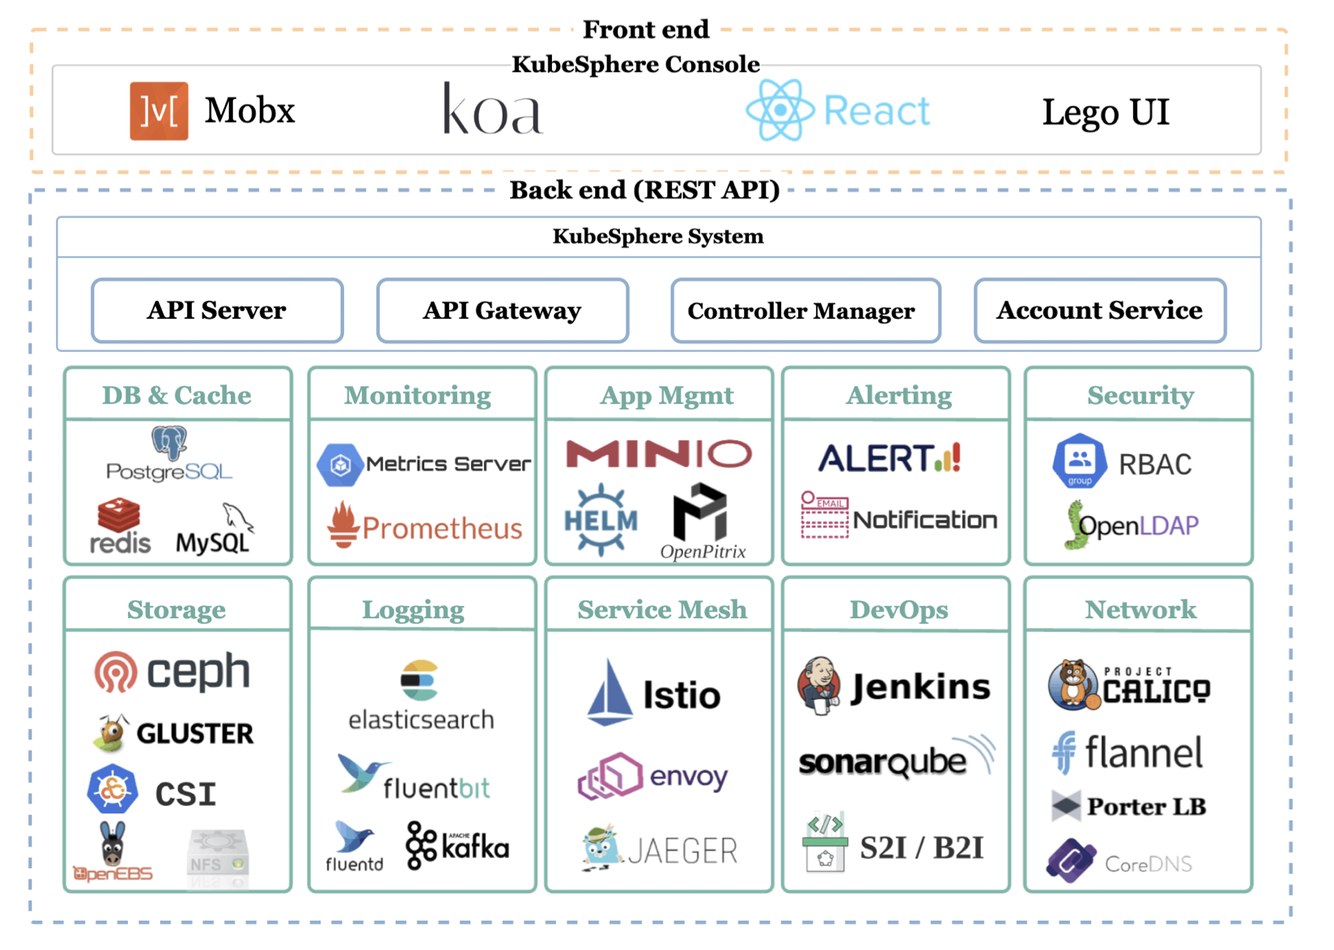
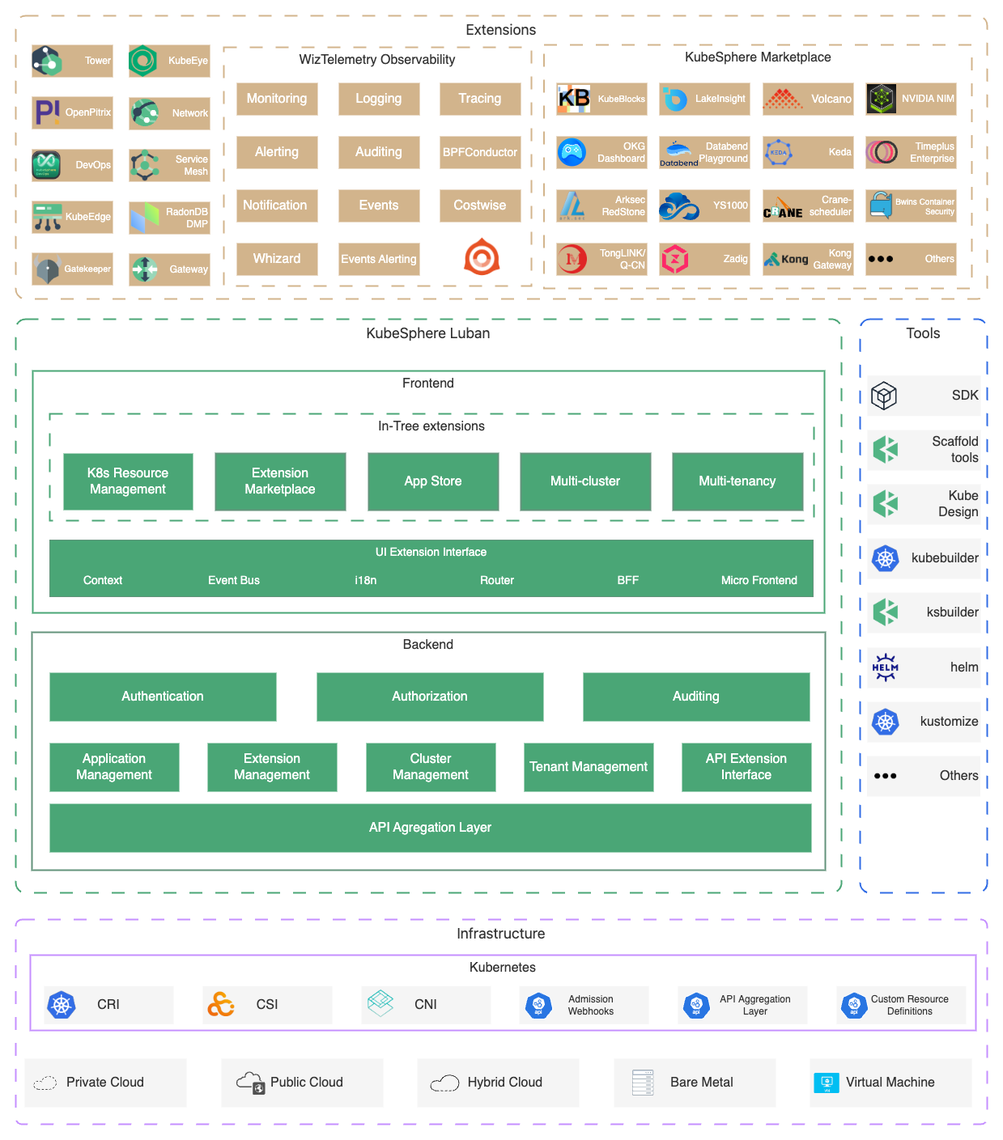
docs: update architecture image and social media link in README (#6425)

diff --git a/README.md b/README.md
@@ -62,8 +62,13 @@ KubeSphere installed in only 5 seconds and experience feature-rich KubeSphere.
 ## Features
 
 <details>
+<summary><b>🧩 Extensible Architecture</b></summary>  
+Designed for flexibility, supporting plugin-based extensions and seamless integrations. Easily customize and expand functionalities to meet evolving needs. <a href="https://kubesphere.io/docs/v4.1/01-intro/02-architecture/">Learn more</a>.  
+</details>
+
+<details>
   <summary><b>🕸 Provisioning Kubernetes Cluster</b></summary>
-  Support deploy Kubernetes on any infrastructure, support online and air-gapped installation. <a href="https://kubesphere.io/docs/installing-on-linux/introduction/intro/">Learn more</a>.
+  Support deploy Kubernetes on any infrastructure, support online and air-gapped installation. <a href="https://kubesphere.io/docs/v4.1/03-installation-and-upgrade/02-install-kubesphere/">Learn more</a>.
   </details>
 
 <details>
@@ -73,32 +78,27 @@ KubeSphere installed in only 5 seconds and experience feature-rich KubeSphere.
 
 <details>
   <summary><b>🤖 Kubernetes DevOps</b></summary>
-  Provide GitOps-based CD solutions and use Argo CD to provide the underlying support, collecting CD status information in real time. With the mainstream CI engine Jenkins integrated, DevOps has never been easier. <a href="https://kubesphere.io/devops/">Learn more</a>.
+  Provide GitOps-based CD solutions and use Argo CD to provide the underlying support, collecting CD status information in real time. With the mainstream CI engine Jenkins integrated, DevOps has never been easier. <a href="https://kubesphere.io/docs/v4.1/11-use-extensions/01-devops/01-overview/">Learn more</a>.
   </details>
 
 <details>
   <summary><b>🔎 Cloud Native Observability</b></summary>
-  Multi-dimensional monitoring, events and auditing logs are supported; multi-tenant log query and collection, alerting and notification are built-in. <a href="https://kubesphere.io/observability/">Learn more</a>.
+  Multi-dimensional monitoring, events and auditing logs are supported; multi-tenant log query and collection, alerting and notification are built-in. <a href="https://kubesphere.io/docs/v4.1/11-use-extensions/05-observability-platform/">Learn more</a>.
   </details>
 
 <details>
-  <summary><b>🧩 Service Mesh (Istio-based)</b></summary>
-  Provide fine-grained traffic management, observability and tracing for distributed microservice applications, provides visualization for traffic topology. <a href="https://kubesphere.io/service-mesh/">Learn more</a>.
+  <summary><b>🌐 Service Mesh (Istio-based)</b></summary>
+  Provide fine-grained traffic management, observability and tracing for distributed microservice applications, provides visualization for traffic topology. <a href="https://kubesphere.io/docs/v4.1/11-use-extensions/03-service-mesh/">Learn more</a>.
   </details>
 
 <details>
   <summary><b>💻 App Store</b></summary>
-  Provide an App Store for Helm-based applications, and offer application lifecycle management on Kubernetes platform. <a href="https://kubesphere.io/docs/pluggable-components/app-store/">Learn more</a>.
+  Provide an App Store for Helm-based applications, and offer application lifecycle management on Kubernetes platform. <a href="https://kubesphere.io/docs/v4.1/11-use-extensions/02-app-store/02-app-management/">Learn more</a>.
   </details>
 
 <details>
   <summary><b>💡 Edge Computing Platform</b></summary>
-  KubeSphere integrates <a href="https://kubeedge.io/en/">KubeEdge</a> to enable users to deploy applications on the edge devices and view logs and monitoring metrics of them on the console. <a href="https://kubesphere.io/docs/pluggable-components/kubeedge/">Learn more</a>.
-  </details>
-
-<details>
-  <summary><b>📊 Metering and Billing</b></summary>
-  Track resource consumption at different levels on a unified dashboard, which helps you make better-informed decisions on planning and reduce the cost. <a href="https://kubesphere.io/docs/toolbox/metering-and-billing/view-resource-consumption/">Learn more</a>.
+  KubeSphere integrates <a href="https://kubeedge.io/en/">KubeEdge</a> to enable users to deploy applications on the edge devices and view logs and monitoring metrics of them on the console. <a href="https://kubesphere.io/docs/v4.1/11-use-extensions/17-kubeedge/">Learn more</a>.
   </details>
 
 <details>
@@ -107,9 +107,9 @@ KubeSphere installed in only 5 seconds and experience feature-rich KubeSphere.
   </details>
 
 <details>
-  <summary><b>🏘 Multi-tenancy</b></summary>
-  Provide unified authentication with fine-grained roles and three-tier authorization system, and support AD/LDAP authentication.
-  </details>
+<summary><b>🏢 Multi-Tenancy</b></summary>  
+Isolated workspaces with role-based access control ensure secure resource sharing across multiple tenants. Supports fine-grained permissions and quota management. <a href="https://kubesphere.io/docs/v4.1/08-workspace-management/">Learn more</a>.  
+</details>
 
 <details>
   <summary><b>🧠 GPU Workloads Scheduling and Monitoring</b></summary>
@@ -118,9 +118,7 @@ KubeSphere installed in only 5 seconds and experience feature-rich KubeSphere.
 
 ## Architecture
 
-KubeSphere uses a loosely-coupled architecture that separates the [frontend](https://github.com/kubesphere/console) from
-the [backend](https://github.com/kubesphere/kubesphere). External systems can access the components of the backend
-through the REST APIs.
+KubeSphere 4.x adopts a microkernel + extension components architecture ([codename LuBan](https://kubesphere.io/docs/v4.1/01-intro/01-introduction/)). The core part (KubeSphere Core) only includes the essential basic functions required for system operation, with independent functional modules split and provided in the form of extension components. Users can dynamically manage the extension components during system operation. With the extension capabilities, KubeSphere can support more application scenarios and meet the needs of different users.
 
 ![Architecture](docs/images/architecture.png)
 
@@ -128,70 +126,24 @@ through the REST APIs.
 
 ## Latest release
 
-🎉 KubeSphere v3.4.0 was released! It brings enhancements and better user experience, see
-the [Release Notes For 3.4.0](https://kubesphere.io/docs/release/release-v340/) for the updates.
-
-#### Component supported versions table
-
-| Component      | Version                                                                       | K8s supported version         |
-|----------------|-------------------------------------------------------------------------------|-------------------------------|
-| Alerting       | N/A                                                                           | 1.21,1.22,1.23,1.24,1.25,1.26 |
-| Auditing	      | v0.2.0                                                                        | 1.21,1.22,1.23,1.24,1.25,1.26 |
-| Monitoring     | N/A		                                                                         | 1.21,1.22,1.23,1.24,1.25,1.26 |
-| DevOps         | v3.4.0                                                                        | 1.21,1.22,1.23,1.24,1.25,1.26 |
-| EdgeRuntime    | v1.13.0                                                                       | 1.21,1.22,1.23                |
-| Events         | N/A                                                                           | 1.21,1.22,1.23,1.24,1.25,1.26 |
-| Logging        | opensearch：v2.6.0<br/>fluentbit-operator: v0.14.0<br/> fluent-bit-tag: v1.9.4 | 1.21,1.22,1.23,1.24,1.25,1.26 |
-| Metrics Server | v0.4.2                                                                        | 1.21,1.22,1.23,1.24,1.25,1.26 |
-| Network        | N/A                                                                           | 1.21,1.22,1.23,1.24,1.25,1.26 |
-| Notification   | v2.3.0                                                                        | 1.21,1.22,1.23,1.24,1.25,1.26 |
-| AppStore       | N/A                                                                           | 1.21,1.22,1.23,1.24,1.25,1.26 |
-| Storage        | pvc-autoresizer: v0.3.0<br/>storageclass-accessor: v0.2.2                     | 1.21,1.22,1.23,1.24,1.25,1.26 |
-| ServiceMesh    | Istio: v1.14.6                                                                | 1.21,1.22,1.23,1.24           |
-| Gateway        | Ingress NGINX Controller: v1.3.1                                              | 1.21,1.22,1.23,1.24           |
-
+🎉 KubeSphere v4.1.2 was released! It brings enhancements and better user experience, see
+the [Release Notes For 4.1.2](https://kubesphere.io/docs/v4.1/20-release-notes/release-v412/) for the updates.
 
 ## Installation
 
 KubeSphere can run anywhere from on-premise datacenter to any cloud to edge. In addition, it can be deployed on any
-version-compatible Kubernetes cluster. The installer will start a minimal installation by default, you
-can [enable other pluggable components before or after installation](https://kubesphere.io/docs/quick-start/enable-pluggable-components/).
+version-compatible Kubernetes cluster. KubeSphere consumes very few resources, and you can
+optionally [install additional extensions after installation](https://kubesphere.io/docs/v4.1/02-quickstart/03-install-an-extension/).
 
 ### Quick start
 
-#### Installing on K8s/K3s
-
-Ensure that your cluster has installed Kubernetes v1.21.x, v1.22.x, v1.23.x, * v1.24.x, * v1.25.x, or * v1.26.x. For Kubernetes versions with an asterisk, some features may be unavailable due to incompatibility.
+#### Installing on K8s
 
 Run the following commands to install KubeSphere on an existing Kubernetes cluster:
 
-```yaml
-kubectl apply -f https://github.com/kubesphere/ks-installer/releases/download/v3.4.0/kubesphere-installer.yaml
-
-kubectl apply -f https://github.com/kubesphere/ks-installer/releases/download/v3.4.0/cluster-configuration.yaml
+```bash
+helm upgrade --install -n kubesphere-system --create-namespace ks-core https://charts.kubesphere.io/main/ks-core-1.1.3.tgz --debug --wait
 ```
-
-#### All-in-one
-
-👨💻 No Kubernetes? You can use [KubeKey](https://github.com/kubesphere/kubekey) to install both KubeSphere and
-Kubernetes/K3s in single-node mode on your Linux machine. Let's take K3s as an example:
-
-```yaml
-# Download KubeKey
-curl -sfL https://get-kk.kubesphere.io | VERSION=v3.0.10 sh -
-# Make kk executable
-chmod +x kk
-# Create a cluster
-./kk create cluster --with-kubernetes v1.24.14 --container-manager containerd --with-kubesphere v3.4.0
-```
-
-You can run the following command to view the installation logs. After KubeSphere is successfully installed, you can
-access the KubeSphere web console at `http://IP:30880` and log in using the default administrator account (
-admin/P@88w0rd).
-
-```yaml
-kubectl logs -n kubesphere-system $(kubectl get pod -n kubesphere-system -l 'app in (ks-install, ks-installer)' -o jsonpath='{.items[0].metadata.name}') -f
-``` 
 
 ### KubeSphere for hosted Kubernetes services
 
@@ -207,11 +159,7 @@ You can also install KubeSphere on other hosted Kubernetes services within minut
 the [step-by-step guides](https://kubesphere.io/docs/installing-on-kubernetes/) to get started.
 
 > 👨💻 No internet access? Refer to
->
-the [Air-gapped Installation on Kubernetes](https://kubesphere.io/docs/installing-on-kubernetes/on-prem-kubernetes/install-ks-on-linux-airgapped/)
->
-or [Air-gapped Installation on Linux](https://kubesphere.io/docs/installing-on-linux/introduction/air-gapped-installation/)
-> for instructions on how to use private registry to install KubeSphere.
+> the [Air-gapped Installation](https://kubesphere.io/docs/v4.1/03-installation-and-upgrade/02-install-kubesphere/04-offline-installation/).
 
 ## Guidance, discussion, contribution, and support
 
@@ -222,7 +170,7 @@ set up development environment.
 
 - [Slack Channel](https://join.slack.com/t/kubesphere/shared_invite/zt-219hq0b5y-el~FMRrJxGM1Egf5vX6QiA)
 - [Youtube](https://www.youtube.com/channel/UCyTdUQUYjf7XLjxECx63Hpw)
-- [Twitter](https://twitter.com/KubeSphere)
+- [X/Twitter](https://x.com/KubeSphere)
 
 :hugs: Please submit any KubeSphere bugs, issues, and feature requests
 to [KubeSphere GitHub Issue](https://github.com/kubesphere/kubesphere/issues).
@@ -239,9 +187,9 @@ can [leave a comment](https://github.com/kubesphere/kubesphere/issues/4123) to l
 
 <p align="center">
 <br/><br/>
-<img src="https://landscape.cncf.io/images/left-logo.svg" width="150"/>&nbsp;&nbsp;<img src="https://landscape.cncf.io/images/right-logo.svg" width="200"/>&nbsp;&nbsp;
+<img src="https://raw.githubusercontent.com/cncf/artwork/refs/heads/main/other/cncf-landscape/horizontal/color/cncf-landscape-horizontal-color.svg" width="150"/>&nbsp;&nbsp;<img src="https://raw.githubusercontent.com/cncf/artwork/refs/heads/main/other/cncf/horizontal/color/cncf-color.svg" width="200"/>&nbsp;&nbsp;
 <br/><br/>
 KubeSphere is a member of CNCF and a <a href="https://www.cncf.io/certification/software-conformance/#logos">Kubernetes Conformance Certified platform
-</a>, which enriches the <a href="https://landscape.cncf.io/?landscape=observability-and-analysis&license=apache-license-2-0">CNCF CLOUD NATIVE Landscape.
+</a>, which enriches the <a href="https://landscape.cncf.io/?landscape=observability-and-analysis&group=certified-partners-and-providers&item=platform--certified-kubernetes-distribution--kubesphere">CNCF CLOUD NATIVE Landscape.
 </a>
 </p>

diff --git a/README_zh.md b/README_zh.md
@@ -54,8 +54,14 @@
 ## 平台功能
 
 <details>
+<summary><b>🧩 可扩展架构</b></summary>  
+旨在提供灵活性，支持基于插件的扩展和无缝集成。轻松定制和扩展功能，以满足不断变化的需求， <a href="https://kubesphere.io/docs/v4.1/01-intro/02-architecture/">了解更多</a>.  
+</details>
+
+
+<details>
   <summary><b>🕸 部署 Kubernetes 集群</b></summary>
-  支持在任何基础设施上部署 Kubernetes，支持在线安装和离线安装，<a href="https://kubesphere.io/zh/docs/installing-on-linux/introduction/intro/">了解更多</a>。
+  支持在任何基础设施上部署 Kubernetes，支持在线安装和离线安装，<a href="https://kubesphere.io/docs/v4.1/03-installation-and-upgrade/02-install-kubesphere/">了解更多</a>。
   </details>
 
 <details>
@@ -65,32 +71,27 @@
 
 <details>
   <summary><b>🤖 Kubernetes DevOps</b></summary>
-  提供基于 GitOps 的 CD 方案，底层支持 Argo CD，可实时统计 CD 状态。结合主流 CI 引擎 Jenkins，让 DevOps 更加易用。<a href="https://kubesphere.io/zh/devops/">了解更多</a>。
+  提供基于 GitOps 的 CD 方案，底层支持 Argo CD，可实时统计 CD 状态。结合主流 CI 引擎 Jenkins，让 DevOps 更加易用。<a href="https://kubesphere.io/docs/v4.1/11-use-extensions/01-devops/01-overview/">了解更多</a>。
   </details>
 
 <details>
   <summary><b>🔎 云原生可观测性</b></summary>
-  支持多维度监控、事件和审计日志；内置多租户日志查询和收集，告警和通知，<a href="https://kubesphere.io/zh/observability/">了解更多</a>。
+  支持多维度监控、事件和审计日志；内置多租户日志查询和收集，告警和通知，<a href="https://kubesphere.io/docs/v4.1/11-use-extensions/05-observability-platform/">了解更多</a>。
   </details>
 
 <details>
-  <summary><b>🧩 基于 Istio 的微服务治理</b></summary>
-  为分布式微服务应用程序提供细粒度的流量管理、可观测性和服务跟踪，支持可视化的流量拓扑，<a href="https://kubesphere.io/zh/service-mesh/">了解更多</a>。
+  <summary><b>🌐 基于 Istio 的微服务治理</b></summary>
+  为分布式微服务应用程序提供细粒度的流量管理、可观测性和服务跟踪，支持可视化的流量拓扑，<a href="https://kubesphere.io/docs/v4.1/11-use-extensions/03-service-mesh/">了解更多</a>。
   </details>
 
 <details>
   <summary><b>💻 应用商店</b></summary>
-  为基于 Helm 的应用程序提供应用商店，并在 Kubernetes 平台上提供应用程序生命周期管理功能，<a href="https://kubesphere.io/zh/docs/pluggable-components/app-store/">了解更多</a>。
+  为基于 Helm 的应用程序提供应用商店，并在 Kubernetes 平台上提供应用程序生命周期管理功能，<a href="https://kubesphere.io/docs/v4.1/11-use-extensions/02-app-store/02-app-management/">了解更多</a>。
   </details>
 
 <details>
   <summary><b>💡 Kubernetes 边缘节点管理</b></summary>
-  基于 <a href="https://kubeedge.io/zh/">KubeEdge</a> 实现应用与工作负载在云端与边缘节点的统一分发与管理，解决在海量边、端设备上完成应用交付、运维、管控的需求，<a href= "https://kubesphere.io/zh/docs/pluggable-components/kubeedge/">了解更多</a>。
-  </details>
-
-<details>
-  <summary><b>📊 多维度计量与计费</b></summary>
-  提供基于集群与租户的多维度资源计量与计费的监控报表，让 Kubernetes 运营成本更透明，<a href="https://kubesphere.io/zh/docs/toolbox/metering-and-billing/view-resource-consumption/">了解更多</a>。
+  基于 <a href="https://kubeedge.io/zh/">KubeEdge</a> 实现应用与工作负载在云端与边缘节点的统一分发与管理，解决在海量边、端设备上完成应用交付、运维、管控的需求，<a href= "https://kubesphere.io/docs/v4.1/11-use-extensions/17-kubeedge/">了解更多</a>。
   </details>
 
 <details>
@@ -100,7 +101,7 @@
 
 <details>
   <summary><b>🏘 多租户与统一鉴权认证</b></summary>
-  提供统一的认证鉴权与细粒度的基于角色的授权系统，支持对接 AD/LDAP 。
+  具有基于角色的访问控制的逻辑隔离可确保跨多个租户的安全资源共享。支持细粒度的权限和配额管理，<a href="https://kubesphere.io/docs/v4.1/08-workspace-management/">了解更多</a>。
   </details>
 
 <details>
@@ -110,7 +111,7 @@
 
 ## 架构说明
 
-KubeSphere 使用前后端分离的架构，将 [前端](https://github.com/kubesphere/console) 与 [后端](https://github.com/kubesphere/kubesphere) 分开。后端的各个功能组件可通过 REST API 对接外部系统。
+KubeSphere 4.x，采用了微内核 + 扩展组件的架构（[代号 LuBan](https://kubesphere.io/docs/v4.1/01-intro/01-introduction/)）。其中内核部分（KubeSphere Core）仅包含系统运行的必备基础功能，将独立的功能模块拆分通过扩展组件（Extensions）的形式提供。用户可在系统运行时动态地管理扩展组件，借助扩展能力，KubeSphere 可以支持更多的应用场景，满足不同用户的需求。
 
 ![Architecture](docs/images/architecture.png)
 
@@ -118,59 +119,19 @@ KubeSphere 使用前后端分离的架构，将 [前端](https://github.com/kube
 
 ## 最新版本
 
-🎉 KubeSphere 3.4.0 全新发布！！多项功能与体验优化，带来更好的产品体验，详见 [v3.4.0 版本说明](https://www.kubesphere.io/zh/news/kubesphere-3.4.0-ga-announcement/) 。
-
-#### 组件支持版本列表
-
-| Component      | Version                                                                       | K8s supported version         |
-|----------------|-------------------------------------------------------------------------------|-------------------------------|
-| Alerting       | N/A                                                                           | 1.21,1.22,1.23,1.24,1.25,1.26 |
-| Auditing	      | v0.2.0                                                                        | 1.21,1.22,1.23,1.24,1.25,1.26 |
-| Monitoring     | N/A		                                                                         | 1.21,1.22,1.23,1.24,1.25,1.26 |
-| DevOps         | v3.4.0                                                                        | 1.21,1.22,1.23,1.24,1.25,1.26 |
-| EdgeRuntime    | v1.13.0                                                                       | 1.21,1.22,1.23                |
-| Events         | N/A                                                                           | 1.21,1.22,1.23,1.24,1.25,1.26 |
-| Logging        | opensearch：v2.6.0<br/>fluentbit-operator: v0.14.0<br/> fluent-bit-tag: v1.9.4 | 1.21,1.22,1.23,1.24,1.25,1.26 |
-| Metrics Server | v0.4.2                                                                        | 1.21,1.22,1.23,1.24,1.25,1.26 |
-| Network        | N/A                                                                           | 1.21,1.22,1.23,1.24,1.25,1.26 |
-| Notification   | v2.3.0                                                                        | 1.21,1.22,1.23,1.24,1.25,1.26 |
-| AppStore       | N/A                                                                           | 1.21,1.22,1.23,1.24,1.25,1.26 |
-| Storage        | pvc-autoresizer: v0.3.0<br/>storageclass-accessor: v0.2.2                     | 1.21,1.22,1.23,1.24,1.25,1.26 |
-| ServiceMesh    | Istio: v1.14.6                                                                | 1.21,1.22,1.23,1.24           |
-| Gateway        | Ingress NGINX Controller: v1.3.1      
+🎉 KubeSphere 4.1.2 全新发布！！多项功能与体验优化，带来更好的产品体验，详见 [v4.1.2 版本说明](https://kubesphere.io/docs/v4.1/20-release-notes/release-v412/) 。
 
 ## 安装
 
-KubeSphere 支持在任意平台运行，从本地数据中心到混合多云再走向边缘。此外，KubeSphere 可以部署在任何版本兼容的 Kubernetes 集群上。Installer 默认将执行最小化安装，您可以在安装前或安装后自定义[安装可插拔功能组件](https://kubesphere.io/zh/docs/quick-start/enable-pluggable-components/)。
-### 快速入门
-#### 在 K8s/K3s 上安装
+KubeSphere 支持在任意平台运行，从本地数据中心到混合多云再走向边缘。此外，KubeSphere 可以部署在任何版本兼容的 Kubernetes 集群上。KubeSphere 的资源消耗很少, 你可以在安装完成后[安装其他的扩展组件](https://kubesphere.io/docs/v4.1/02-quickstart/03-install-an-extension/)。
 
-请确保您的集群已经安装 Kubernetes v1.21.x, v1.22.x, v1.23.x, * v1.24.x, * v1.25.x, 或 * v1.26.x。带星号的版本可能出现边缘节点部分功能不可用的情况。
+### 快速入门
+#### 在 K8s 上安装
 
 运行以下命令以在现有 Kubernetes 集群上安装 KubeSphere：
 
-```yaml
-kubectl apply -f https://github.com/kubesphere/ks-installer/releases/download/v3.4.0/kubesphere-installer.yaml
-   
-kubectl apply -f https://github.com/kubesphere/ks-installer/releases/download/v3.4.0/cluster-configuration.yaml
-```
-#### All-in-one（Linux 单节点安装）
-
-👨💻 没有 Kubernetes 集群? 可以用 [KubeKey](https://github.com/kubesphere/kubekey) 在 Linux 环境以 All-in-one 快速安装单节点 K8s/K3s 和 KubeSphere，下面以 K3s 为例：
-
-```yaml
-# 下载 KubeKey
-curl -sfL https://get-kk.kubesphere.io | VERSION=v3.0.10 sh -
-# 为 kk 赋予可执行权限
-chmod +x kk
-# 创建集群
-./kk create cluster --with-kubernetes v1.24.14 --container-manager containerd --with-kubesphere v3.4.0
-```
-
-可使用以下命令查看安装日志。如果安装成功，可使用 `http://IP:30880` 访问 KubeSphere Console，管理员登录帐密为 `admin/P@88w0rd`。
-
-```yaml
-kubectl logs -n kubesphere-system $(kubectl get pod -n kubesphere-system -l 'app in (ks-install, ks-installer)' -o jsonpath='{.items[0].metadata.name}') -f
+```bash
+helm upgrade --install -n kubesphere-system --create-namespace ks-core https://charts.kubesphere.io/main/ks-core-1.1.3.tgz --debug --wait
 ```
 
 ### 在托管 Kubernetes 上部署 KubeSphere
@@ -184,7 +145,7 @@ KubeSphere 托管在以下云供应商上，您可以通过在其托管的 Kuber
 
 您还可以在几分钟内在其他托管的 Kubernetes 服务上安装 KubeSphere，请参阅 [官方文档](https://kubesphere.io/zh/docs/installing-on-kubernetes/) 以开始使用。
 
-> 👨💻 不能访问网络？参考 [在Kubernetes上离线安装](https://kubesphere.io/zh/docs/installing-on-kubernetes/on-prem-kubernetes/install-ks-on-linux-airgapped/) 或者 [在 Linux 上离线安装](https://kubesphere.io/zh/docs/installing-on-linux/introduction/air-gapped-installation/) 了解如何使用私有仓库来安装 KubeSphere。
+> 👨💻 不能访问网络？参考[在离线环境中安装 KubeSphere](https://kubesphere.io/docs/v4.1/03-installation-and-upgrade/02-install-kubesphere/04-offline-installation/)。
 
 ## 指引、讨论、贡献与支持
 
@@ -194,7 +155,7 @@ KubeSphere 托管在以下云供应商上，您可以通过在其托管的 Kuber
 - [社区微信群（见官网底部）](https://kubesphere.com.cn/)
 - [Slack Channel](https://join.slack.com/t/kubesphere/shared_invite/zt-219hq0b5y-el~FMRrJxGM1Egf5vX6QiA)
 - [Bilibili](https://space.bilibili.com/438908638)
-- [Twitter](https://twitter.com/KubeSphere)
+- [X/Twitter](https://twitter.com/KubeSphere)
 
 :hugs: 请将任何 KubeSphere 的 Bug、问题和需求提交到 [KubeSphere GitHub Issue](https://github.com/kubesphere/kubesphere/issues)。
 
@@ -208,7 +169,7 @@ KubeSphere 托管在以下云供应商上，您可以通过在其托管的 Kuber
 
 <p align="center">
 <br/><br/>
-<img src="https://landscape.cncf.io/images/left-logo.svg" width="150"/>&nbsp;&nbsp;<img src="https://landscape.cncf.io/images/right-logo.svg" width="200"/>&nbsp;&nbsp;
+<img src="https://raw.githubusercontent.com/cncf/artwork/refs/heads/main/other/cncf-landscape/horizontal/color/cncf-landscape-horizontal-color.svg" width="150"/>&nbsp;&nbsp;<img src="https://raw.githubusercontent.com/cncf/artwork/refs/heads/main/other/cncf/horizontal/color/cncf-color.svg" width="200"/>&nbsp;&nbsp;
 <br/><br/>
 KubeSphere 是 CNCF 基金会成员并且通过了 <a href="https://www.cncf.io/certification/software-conformance/#logos">Kubernetes 一致性认证
 </a>，进一步丰富了 <a href="https://landscape.cncf.io/?landscape=observability-and-analysis&license=apache-license-2-0">CNCF 云原生的生态。
